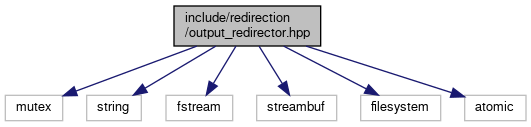
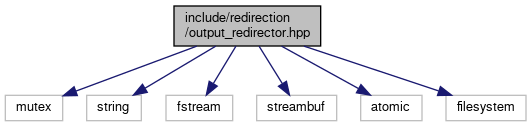
Update docs

Changed region(s): [[0.6026, 0.4016, 0.9944, 0.9685], [0.5122, 0.3543, 0.7232, 0.7559]]

diff --git a/docs/output__redirector_8hpp_source.html b/docs/output__redirector_8hpp_source.html
@@ -90,123 +90,125 @@ $(function() {
 <div class="line"><a name="l00023"></a><span class="lineno">   23</span>&#160;<span class="preprocessor"># include &lt;string&gt;</span></div>
 <div class="line"><a name="l00024"></a><span class="lineno">   24</span>&#160;<span class="preprocessor"># include &lt;fstream&gt;</span></div>
 <div class="line"><a name="l00025"></a><span class="lineno">   25</span>&#160;<span class="preprocessor"># include &lt;streambuf&gt;</span></div>
-<div class="line"><a name="l00026"></a><span class="lineno">   26</span>&#160;<span class="preprocessor">#ifndef __APPLE__</span></div>
-<div class="line"><a name="l00027"></a><span class="lineno">   27</span>&#160;<span class="preprocessor">  #if defined( __GNUC__ ) &amp;&amp; ( __GNUC___ &lt;= 8 )</span></div>
-<div class="line"><a name="l00028"></a><span class="lineno">   28</span>&#160;<span class="preprocessor">    #include &lt;experimental/filesystem&gt;</span></div>
-<div class="line"><a name="l00029"></a><span class="lineno">   29</span>&#160;<span class="preprocessor">  #else</span></div>
-<div class="line"><a name="l00030"></a><span class="lineno">   30</span>&#160;<span class="preprocessor">    #include &lt;filesystem&gt;</span></div>
-<div class="line"><a name="l00031"></a><span class="lineno">   31</span>&#160;<span class="preprocessor">  #endif</span></div>
-<div class="line"><a name="l00032"></a><span class="lineno">   32</span>&#160;<span class="preprocessor">#else</span></div>
-<div class="line"><a name="l00033"></a><span class="lineno">   33</span>&#160;<span class="preprocessor">  #include &lt;filesystem&gt;</span></div>
-<div class="line"><a name="l00034"></a><span class="lineno">   34</span>&#160;<span class="preprocessor">#endif</span></div>
-<div class="line"><a name="l00035"></a><span class="lineno">   35</span>&#160;<span class="preprocessor">#include &lt;atomic&gt;</span></div>
-<div class="line"><a name="l00036"></a><span class="lineno">   36</span>&#160; </div>
-<div class="line"><a name="l00037"></a><span class="lineno">   37</span>&#160;<span class="keyword">namespace </span><a class="code" href="namespaceosm.html">osm</a></div>
-<div class="line"><a name="l00038"></a><span class="lineno">   38</span>&#160;{</div>
-<div class="line"><a name="l00039"></a><span class="lineno">   39</span>&#160;  <span class="comment">//====================================================</span></div>
-<div class="line"><a name="l00040"></a><span class="lineno">   40</span>&#160;  <span class="comment">//     Aliases</span></div>
+<div class="line"><a name="l00026"></a><span class="lineno">   26</span>&#160;<span class="preprocessor">#include &lt;atomic&gt;</span></div>
+<div class="line"><a name="l00027"></a><span class="lineno">   27</span>&#160; </div>
+<div class="line"><a name="l00028"></a><span class="lineno">   28</span>&#160;<span class="comment">// Procedure for experimental header</span></div>
+<div class="line"><a name="l00029"></a><span class="lineno">   29</span>&#160;<span class="preprocessor">#ifndef __APPLE__</span></div>
+<div class="line"><a name="l00030"></a><span class="lineno">   30</span>&#160;<span class="preprocessor">  #if defined( __GNUC__ ) &amp;&amp; ( __GNUC___ &lt;= 8 )</span></div>
+<div class="line"><a name="l00031"></a><span class="lineno">   31</span>&#160;<span class="preprocessor">    #include &lt;experimental/filesystem&gt;</span></div>
+<div class="line"><a name="l00032"></a><span class="lineno">   32</span>&#160;<span class="preprocessor">  #else</span></div>
+<div class="line"><a name="l00033"></a><span class="lineno">   33</span>&#160;<span class="preprocessor">    #include &lt;filesystem&gt;</span></div>
+<div class="line"><a name="l00034"></a><span class="lineno">   34</span>&#160;<span class="preprocessor">  #endif</span></div>
+<div class="line"><a name="l00035"></a><span class="lineno">   35</span>&#160;<span class="preprocessor">#else</span></div>
+<div class="line"><a name="l00036"></a><span class="lineno">   36</span>&#160;<span class="preprocessor">  #include &lt;filesystem&gt;</span></div>
+<div class="line"><a name="l00037"></a><span class="lineno">   37</span>&#160;<span class="preprocessor">#endif</span></div>
+<div class="line"><a name="l00038"></a><span class="lineno">   38</span>&#160; </div>
+<div class="line"><a name="l00039"></a><span class="lineno">   39</span>&#160;<span class="keyword">namespace </span><a class="code" href="namespaceosm.html">osm</a></div>
+<div class="line"><a name="l00040"></a><span class="lineno">   40</span>&#160;{</div>
 <div class="line"><a name="l00041"></a><span class="lineno">   41</span>&#160;  <span class="comment">//====================================================</span></div>
-<div class="line"><a name="l00042"></a><span class="lineno">   42</span>&#160;<span class="preprocessor">  #ifndef __APPLE__</span></div>
-<div class="line"><a name="l00043"></a><span class="lineno">   43</span>&#160;<span class="preprocessor">    #if defined( __GNUC__ ) &amp;&amp; ( __GNUC___ &lt;= 8 )</span></div>
-<div class="line"><a name="l00044"></a><span class="lineno">   44</span>&#160;      <span class="keyword">namespace </span>fs = std::experimental::filesystem;</div>
-<div class="line"><a name="l00045"></a><span class="lineno">   45</span>&#160;<span class="preprocessor">    #else</span></div>
-<div class="line"><a name="l00046"></a><span class="lineno">   46</span>&#160;      <span class="keyword">namespace </span>fs = std::filesystem;</div>
-<div class="line"><a name="l00047"></a><span class="lineno">   47</span>&#160;<span class="preprocessor">    #endif</span></div>
-<div class="line"><a name="l00048"></a><span class="lineno">   48</span>&#160;<span class="preprocessor">  #else</span></div>
-<div class="line"><a name="l00049"></a><span class="lineno">   49</span>&#160;      <span class="keyword">namespace </span>fs = std::filesystem;</div>
-<div class="line"><a name="l00050"></a><span class="lineno">   50</span>&#160;<span class="preprocessor">  #endif</span></div>
-<div class="line"><a name="l00051"></a><span class="lineno">   51</span>&#160; </div>
-<div class="line"><a name="l00052"></a><span class="lineno">   52</span>&#160;  <span class="comment">//====================================================</span></div>
-<div class="line"><a name="l00053"></a><span class="lineno">   53</span>&#160;  <span class="comment">//     Classes</span></div>
+<div class="line"><a name="l00042"></a><span class="lineno">   42</span>&#160;  <span class="comment">//     Aliases</span></div>
+<div class="line"><a name="l00043"></a><span class="lineno">   43</span>&#160;  <span class="comment">//====================================================</span></div>
+<div class="line"><a name="l00044"></a><span class="lineno">   44</span>&#160;<span class="preprocessor">  #ifndef __APPLE__</span></div>
+<div class="line"><a name="l00045"></a><span class="lineno">   45</span>&#160;<span class="preprocessor">    #if defined( __GNUC__ ) &amp;&amp; ( __GNUC___ &lt;= 8 )</span></div>
+<div class="line"><a name="l00046"></a><span class="lineno">   46</span>&#160;      <span class="keyword">namespace </span>fs = std::experimental::filesystem;</div>
+<div class="line"><a name="l00047"></a><span class="lineno">   47</span>&#160;<span class="preprocessor">    #else</span></div>
+<div class="line"><a name="l00048"></a><span class="lineno">   48</span>&#160;      <span class="keyword">namespace </span>fs = std::filesystem;</div>
+<div class="line"><a name="l00049"></a><span class="lineno">   49</span>&#160;<span class="preprocessor">    #endif</span></div>
+<div class="line"><a name="l00050"></a><span class="lineno">   50</span>&#160;<span class="preprocessor">  #else</span></div>
+<div class="line"><a name="l00051"></a><span class="lineno">   51</span>&#160;      <span class="keyword">namespace </span>fs = std::filesystem;</div>
+<div class="line"><a name="l00052"></a><span class="lineno">   52</span>&#160;<span class="preprocessor">  #endif</span></div>
+<div class="line"><a name="l00053"></a><span class="lineno">   53</span>&#160; </div>
 <div class="line"><a name="l00054"></a><span class="lineno">   54</span>&#160;  <span class="comment">//====================================================</span></div>
-<div class="line"><a name="l00055"></a><span class="lineno">   55</span>&#160; </div>
-<div class="line"><a name="l00056"></a><span class="lineno">   56</span>&#160;  <span class="comment">// OutputRedirector</span></div>
-<div class="line"><a name="l00061"></a><span class="lineno"><a class="line" href="classosm_1_1OutputRedirector.html">   61</a></span>&#160;<span class="comment"></span>  <span class="keyword">class </span><a class="code" href="classosm_1_1OutputRedirector.html">OutputRedirector</a></div>
-<div class="line"><a name="l00062"></a><span class="lineno">   62</span>&#160;  {</div>
-<div class="line"><a name="l00063"></a><span class="lineno">   63</span>&#160;    <span class="keyword">typedef</span> std::scoped_lock&lt;std::mutex&gt; scoped_lock;</div>
-<div class="line"><a name="l00064"></a><span class="lineno">   64</span>&#160;    <span class="keyword">typedef</span> std::lock_guard&lt;std::mutex&gt; lock_guard;</div>
-<div class="line"><a name="l00065"></a><span class="lineno">   65</span>&#160; </div>
-<div class="line"><a name="l00066"></a><span class="lineno">   66</span>&#160;    <span class="keyword">public</span>:</div>
-<div class="line"><a name="l00067"></a><span class="lineno">   67</span>&#160;    <span class="comment">//====================================================</span></div>
-<div class="line"><a name="l00068"></a><span class="lineno">   68</span>&#160;    <span class="comment">//     Constructors</span></div>
+<div class="line"><a name="l00055"></a><span class="lineno">   55</span>&#160;  <span class="comment">//     Classes</span></div>
+<div class="line"><a name="l00056"></a><span class="lineno">   56</span>&#160;  <span class="comment">//====================================================</span></div>
+<div class="line"><a name="l00057"></a><span class="lineno">   57</span>&#160; </div>
+<div class="line"><a name="l00058"></a><span class="lineno">   58</span>&#160;  <span class="comment">// OutputRedirector</span></div>
+<div class="line"><a name="l00063"></a><span class="lineno"><a class="line" href="classosm_1_1OutputRedirector.html">   63</a></span>&#160;<span class="comment"></span>  <span class="keyword">class </span><a class="code" href="classosm_1_1OutputRedirector.html">OutputRedirector</a></div>
+<div class="line"><a name="l00064"></a><span class="lineno">   64</span>&#160;  {</div>
+<div class="line"><a name="l00065"></a><span class="lineno">   65</span>&#160;    <span class="keyword">typedef</span> std::scoped_lock&lt;std::mutex&gt; scoped_lock;</div>
+<div class="line"><a name="l00066"></a><span class="lineno">   66</span>&#160;    <span class="keyword">typedef</span> std::lock_guard&lt;std::mutex&gt; lock_guard;</div>
+<div class="line"><a name="l00067"></a><span class="lineno">   67</span>&#160; </div>
+<div class="line"><a name="l00068"></a><span class="lineno">   68</span>&#160;    <span class="keyword">public</span>:</div>
 <div class="line"><a name="l00069"></a><span class="lineno">   69</span>&#160;    <span class="comment">//====================================================</span></div>
-<div class="line"><a name="l00070"></a><span class="lineno">   70</span>&#160;    <a class="code" href="classosm_1_1OutputRedirector.html#a4cc61328e5652ad7bade97be6b75605e">OutputRedirector</a>();</div>
-<div class="line"><a name="l00071"></a><span class="lineno">   71</span>&#160;    <span class="keyword">explicit</span> <a class="code" href="classosm_1_1OutputRedirector.html#a4cc61328e5652ad7bade97be6b75605e">OutputRedirector</a>( std::string filename );</div>
-<div class="line"><a name="l00072"></a><span class="lineno">   72</span>&#160; </div>
-<div class="line"><a name="l00073"></a><span class="lineno">   73</span>&#160;    <span class="comment">//====================================================</span></div>
-<div class="line"><a name="l00074"></a><span class="lineno">   74</span>&#160;    <span class="comment">//     Destructor</span></div>
+<div class="line"><a name="l00070"></a><span class="lineno">   70</span>&#160;    <span class="comment">//     Constructors</span></div>
+<div class="line"><a name="l00071"></a><span class="lineno">   71</span>&#160;    <span class="comment">//====================================================</span></div>
+<div class="line"><a name="l00072"></a><span class="lineno">   72</span>&#160;    <a class="code" href="classosm_1_1OutputRedirector.html#a4cc61328e5652ad7bade97be6b75605e">OutputRedirector</a>();</div>
+<div class="line"><a name="l00073"></a><span class="lineno">   73</span>&#160;    <span class="keyword">explicit</span> <a class="code" href="classosm_1_1OutputRedirector.html#a4cc61328e5652ad7bade97be6b75605e">OutputRedirector</a>( std::string filename );</div>
+<div class="line"><a name="l00074"></a><span class="lineno">   74</span>&#160; </div>
 <div class="line"><a name="l00075"></a><span class="lineno">   75</span>&#160;    <span class="comment">//====================================================</span></div>
-<div class="line"><a name="l00076"></a><span class="lineno">   76</span>&#160;    <a class="code" href="classosm_1_1OutputRedirector.html#abe64b48e42cf7504cf7a2ea8917a21dc">~OutputRedirector</a>();</div>
-<div class="line"><a name="l00077"></a><span class="lineno">   77</span>&#160; </div>
-<div class="line"><a name="l00078"></a><span class="lineno">   78</span>&#160;    <span class="comment">//====================================================</span></div>
-<div class="line"><a name="l00079"></a><span class="lineno">   79</span>&#160;    <span class="comment">//     Setters</span></div>
+<div class="line"><a name="l00076"></a><span class="lineno">   76</span>&#160;    <span class="comment">//     Destructor</span></div>
+<div class="line"><a name="l00077"></a><span class="lineno">   77</span>&#160;    <span class="comment">//====================================================</span></div>
+<div class="line"><a name="l00078"></a><span class="lineno">   78</span>&#160;    <a class="code" href="classosm_1_1OutputRedirector.html#abe64b48e42cf7504cf7a2ea8917a21dc">~OutputRedirector</a>();</div>
+<div class="line"><a name="l00079"></a><span class="lineno">   79</span>&#160; </div>
 <div class="line"><a name="l00080"></a><span class="lineno">   80</span>&#160;    <span class="comment">//====================================================</span></div>
-<div class="line"><a name="l00081"></a><span class="lineno">   81</span>&#160;    <span class="keywordtype">void</span> <a class="code" href="classosm_1_1OutputRedirector.html#a6b92c69f3cecc6d384e3a238e22b61fa">setFilename</a>( <span class="keyword">const</span> std::string &amp; filename );</div>
-<div class="line"><a name="l00082"></a><span class="lineno">   82</span>&#160;    <span class="comment">//     void setFilepath( fs::path &amp; path );</span></div>
-<div class="line"><a name="l00083"></a><span class="lineno">   83</span>&#160; </div>
-<div class="line"><a name="l00084"></a><span class="lineno">   84</span>&#160;    <span class="comment">//====================================================</span></div>
-<div class="line"><a name="l00085"></a><span class="lineno">   85</span>&#160;    <span class="comment">//     Getters</span></div>
+<div class="line"><a name="l00081"></a><span class="lineno">   81</span>&#160;    <span class="comment">//     Setters</span></div>
+<div class="line"><a name="l00082"></a><span class="lineno">   82</span>&#160;    <span class="comment">//====================================================</span></div>
+<div class="line"><a name="l00083"></a><span class="lineno">   83</span>&#160;    <span class="keywordtype">void</span> <a class="code" href="classosm_1_1OutputRedirector.html#a6b92c69f3cecc6d384e3a238e22b61fa">setFilename</a>( <span class="keyword">const</span> std::string &amp; filename );</div>
+<div class="line"><a name="l00084"></a><span class="lineno">   84</span>&#160;    <span class="comment">//     void setFilepath( fs::path &amp; path );</span></div>
+<div class="line"><a name="l00085"></a><span class="lineno">   85</span>&#160; </div>
 <div class="line"><a name="l00086"></a><span class="lineno">   86</span>&#160;    <span class="comment">//====================================================</span></div>
-<div class="line"><a name="l00087"></a><span class="lineno">   87</span>&#160;    [[nodiscard]] std::string &amp; <a class="code" href="classosm_1_1OutputRedirector.html#aa7fe7a1142a8cc379fdb9f01fc94f354">getFilename</a>();</div>
-<div class="line"><a name="l00088"></a><span class="lineno">   88</span>&#160;    [[nodiscard]] std::string &amp; <a class="code" href="classosm_1_1OutputRedirector.html#a13c69adca11f67b4655528ebbe810779">getFilepath</a>();</div>
-<div class="line"><a name="l00089"></a><span class="lineno">   89</span>&#160; </div>
-<div class="line"><a name="l00090"></a><span class="lineno">   90</span>&#160;    <span class="comment">//====================================================</span></div>
-<div class="line"><a name="l00091"></a><span class="lineno">   91</span>&#160;    <span class="comment">//     Methods</span></div>
+<div class="line"><a name="l00087"></a><span class="lineno">   87</span>&#160;    <span class="comment">//     Getters</span></div>
+<div class="line"><a name="l00088"></a><span class="lineno">   88</span>&#160;    <span class="comment">//====================================================</span></div>
+<div class="line"><a name="l00089"></a><span class="lineno">   89</span>&#160;    [[nodiscard]] std::string &amp; <a class="code" href="classosm_1_1OutputRedirector.html#aa7fe7a1142a8cc379fdb9f01fc94f354">getFilename</a>();</div>
+<div class="line"><a name="l00090"></a><span class="lineno">   90</span>&#160;    [[nodiscard]] std::string &amp; <a class="code" href="classosm_1_1OutputRedirector.html#a13c69adca11f67b4655528ebbe810779">getFilepath</a>();</div>
+<div class="line"><a name="l00091"></a><span class="lineno">   91</span>&#160; </div>
 <div class="line"><a name="l00092"></a><span class="lineno">   92</span>&#160;    <span class="comment">//====================================================</span></div>
-<div class="line"><a name="l00093"></a><span class="lineno">   93</span>&#160;    <span class="keywordtype">void</span> <a class="code" href="classosm_1_1OutputRedirector.html#ae80cebe519c0f49412e6739ca04f20f6">end</a>();</div>
-<div class="line"><a name="l00094"></a><span class="lineno">   94</span>&#160;    <span class="keywordtype">void</span> <a class="code" href="classosm_1_1OutputRedirector.html#acc59eaf756a9b647bc6e863e1dbe70fa">begin</a>();</div>
-<div class="line"><a name="l00095"></a><span class="lineno">   95</span>&#160;    <span class="keywordtype">void</span> <a class="code" href="classosm_1_1OutputRedirector.html#a584bc4e50791182360aed5cc3de70fe8">flush</a>();</div>
-<div class="line"><a name="l00096"></a><span class="lineno">   96</span>&#160;    <span class="keywordtype">void</span> <a class="code" href="classosm_1_1OutputRedirector.html#accb08c8ad90c522c27c881fa76ba75c4">touch</a>();</div>
-<div class="line"><a name="l00097"></a><span class="lineno">   97</span>&#160; </div>
-<div class="line"><a name="l00098"></a><span class="lineno">   98</span>&#160;    <span class="comment">//====================================================</span></div>
-<div class="line"><a name="l00099"></a><span class="lineno">   99</span>&#160;    <span class="comment">//     Static public variable</span></div>
+<div class="line"><a name="l00093"></a><span class="lineno">   93</span>&#160;    <span class="comment">//     Methods</span></div>
+<div class="line"><a name="l00094"></a><span class="lineno">   94</span>&#160;    <span class="comment">//====================================================</span></div>
+<div class="line"><a name="l00095"></a><span class="lineno">   95</span>&#160;    <span class="keywordtype">void</span> <a class="code" href="classosm_1_1OutputRedirector.html#ae80cebe519c0f49412e6739ca04f20f6">end</a>();</div>
+<div class="line"><a name="l00096"></a><span class="lineno">   96</span>&#160;    <span class="keywordtype">void</span> <a class="code" href="classosm_1_1OutputRedirector.html#acc59eaf756a9b647bc6e863e1dbe70fa">begin</a>();</div>
+<div class="line"><a name="l00097"></a><span class="lineno">   97</span>&#160;    <span class="keywordtype">void</span> <a class="code" href="classosm_1_1OutputRedirector.html#a584bc4e50791182360aed5cc3de70fe8">flush</a>();</div>
+<div class="line"><a name="l00098"></a><span class="lineno">   98</span>&#160;    <span class="keywordtype">void</span> <a class="code" href="classosm_1_1OutputRedirector.html#accb08c8ad90c522c27c881fa76ba75c4">touch</a>();</div>
+<div class="line"><a name="l00099"></a><span class="lineno">   99</span>&#160; </div>
 <div class="line"><a name="l00100"></a><span class="lineno">  100</span>&#160;    <span class="comment">//====================================================</span></div>
-<div class="line"><a name="l00101"></a><span class="lineno"><a class="line" href="classosm_1_1OutputRedirector.html#a966cffd6734b5084659dc4dbe9c6418a">  101</a></span>&#160;    <span class="keyword">static</span> <span class="keyword">const</span> std::string <a class="code" href="classosm_1_1OutputRedirector.html#a966cffd6734b5084659dc4dbe9c6418a">DEFAULT_FILE_DIR</a>;</div>
-<div class="line"><a name="l00102"></a><span class="lineno"><a class="line" href="classosm_1_1OutputRedirector.html#a0ec4f99622d356de766c485a68a0c77c">  102</a></span>&#160;    <span class="keyword">static</span> <span class="keyword">const</span> std::string <a class="code" href="classosm_1_1OutputRedirector.html#a0ec4f99622d356de766c485a68a0c77c">DEFAULT_FILEPATH</a>;</div>
-<div class="line"><a name="l00103"></a><span class="lineno"><a class="line" href="classosm_1_1OutputRedirector.html#abca8ddb0cd026b771cc33a72bcd670b8">  103</a></span>&#160;    <span class="keyword">static</span> <span class="keyword">const</span> std::string <a class="code" href="classosm_1_1OutputRedirector.html#abca8ddb0cd026b771cc33a72bcd670b8">DEFAULT_FILENAME</a>;</div>
-<div class="line"><a name="l00104"></a><span class="lineno">  104</span>&#160; </div>
-<div class="line"><a name="l00105"></a><span class="lineno">  105</span>&#160;    <span class="keyword">private</span>:</div>
-<div class="line"><a name="l00106"></a><span class="lineno">  106</span>&#160;    <span class="comment">//====================================================</span></div>
-<div class="line"><a name="l00107"></a><span class="lineno">  107</span>&#160;    <span class="comment">//     Private attributes</span></div>
+<div class="line"><a name="l00101"></a><span class="lineno">  101</span>&#160;    <span class="comment">//     Static public variable</span></div>
+<div class="line"><a name="l00102"></a><span class="lineno">  102</span>&#160;    <span class="comment">//====================================================</span></div>
+<div class="line"><a name="l00103"></a><span class="lineno"><a class="line" href="classosm_1_1OutputRedirector.html#a966cffd6734b5084659dc4dbe9c6418a">  103</a></span>&#160;    <span class="keyword">static</span> <span class="keyword">const</span> std::string <a class="code" href="classosm_1_1OutputRedirector.html#a966cffd6734b5084659dc4dbe9c6418a">DEFAULT_FILE_DIR</a>;</div>
+<div class="line"><a name="l00104"></a><span class="lineno"><a class="line" href="classosm_1_1OutputRedirector.html#a0ec4f99622d356de766c485a68a0c77c">  104</a></span>&#160;    <span class="keyword">static</span> <span class="keyword">const</span> std::string <a class="code" href="classosm_1_1OutputRedirector.html#a0ec4f99622d356de766c485a68a0c77c">DEFAULT_FILEPATH</a>;</div>
+<div class="line"><a name="l00105"></a><span class="lineno"><a class="line" href="classosm_1_1OutputRedirector.html#abca8ddb0cd026b771cc33a72bcd670b8">  105</a></span>&#160;    <span class="keyword">static</span> <span class="keyword">const</span> std::string <a class="code" href="classosm_1_1OutputRedirector.html#abca8ddb0cd026b771cc33a72bcd670b8">DEFAULT_FILENAME</a>;</div>
+<div class="line"><a name="l00106"></a><span class="lineno">  106</span>&#160; </div>
+<div class="line"><a name="l00107"></a><span class="lineno">  107</span>&#160;    <span class="keyword">private</span>:</div>
 <div class="line"><a name="l00108"></a><span class="lineno">  108</span>&#160;    <span class="comment">//====================================================</span></div>
-<div class="line"><a name="l00109"></a><span class="lineno">  109</span>&#160;    std::mutex mutex_;</div>
-<div class="line"><a name="l00110"></a><span class="lineno">  110</span>&#160;    std::atomic&lt;int32_t&gt; ref_count;</div>
-<div class="line"><a name="l00111"></a><span class="lineno">  111</span>&#160; </div>
-<div class="line"><a name="l00112"></a><span class="lineno">  112</span>&#160;    std::string file_dir_;</div>
-<div class="line"><a name="l00113"></a><span class="lineno">  113</span>&#160;    std::string filename_;</div>
-<div class="line"><a name="l00114"></a><span class="lineno">  114</span>&#160;    std::string filepath_;</div>
-<div class="line"><a name="l00115"></a><span class="lineno">  115</span>&#160; </div>
-<div class="line"><a name="l00116"></a><span class="lineno">  116</span>&#160;    std::fstream fstream_;</div>
-<div class="line"><a name="l00117"></a><span class="lineno">  117</span>&#160;    std::stringbuf * output_stringbuf_;</div>
-<div class="line"><a name="l00118"></a><span class="lineno">  118</span>&#160;    std::streambuf * streambuf_backup_;</div>
-<div class="line"><a name="l00119"></a><span class="lineno">  119</span>&#160; </div>
-<div class="line"><a name="l00120"></a><span class="lineno">  120</span>&#160;    <span class="comment">//====================================================</span></div>
-<div class="line"><a name="l00121"></a><span class="lineno">  121</span>&#160;    <span class="comment">//     Private methods</span></div>
+<div class="line"><a name="l00109"></a><span class="lineno">  109</span>&#160;    <span class="comment">//     Private attributes</span></div>
+<div class="line"><a name="l00110"></a><span class="lineno">  110</span>&#160;    <span class="comment">//====================================================</span></div>
+<div class="line"><a name="l00111"></a><span class="lineno">  111</span>&#160;    std::mutex mutex_;</div>
+<div class="line"><a name="l00112"></a><span class="lineno">  112</span>&#160;    std::atomic&lt;int32_t&gt; ref_count;</div>
+<div class="line"><a name="l00113"></a><span class="lineno">  113</span>&#160; </div>
+<div class="line"><a name="l00114"></a><span class="lineno">  114</span>&#160;    std::string file_dir_;</div>
+<div class="line"><a name="l00115"></a><span class="lineno">  115</span>&#160;    std::string filename_;</div>
+<div class="line"><a name="l00116"></a><span class="lineno">  116</span>&#160;    std::string filepath_;</div>
+<div class="line"><a name="l00117"></a><span class="lineno">  117</span>&#160; </div>
+<div class="line"><a name="l00118"></a><span class="lineno">  118</span>&#160;    std::fstream fstream_;</div>
+<div class="line"><a name="l00119"></a><span class="lineno">  119</span>&#160;    std::stringbuf * output_stringbuf_;</div>
+<div class="line"><a name="l00120"></a><span class="lineno">  120</span>&#160;    std::streambuf * streambuf_backup_;</div>
+<div class="line"><a name="l00121"></a><span class="lineno">  121</span>&#160; </div>
 <div class="line"><a name="l00122"></a><span class="lineno">  122</span>&#160;    <span class="comment">//====================================================</span></div>
-<div class="line"><a name="l00123"></a><span class="lineno">  123</span>&#160;    <span class="keywordtype">void</span> clear_buffer();</div>
-<div class="line"><a name="l00124"></a><span class="lineno">  124</span>&#160;    <span class="keywordtype">void</span> redirect_output( std::string &amp; filename );</div>
-<div class="line"><a name="l00125"></a><span class="lineno">  125</span>&#160; </div>
-<div class="line"><a name="l00126"></a><span class="lineno">  126</span>&#160;    <span class="comment">// File</span></div>
-<div class="line"><a name="l00127"></a><span class="lineno">  127</span>&#160;    std::string read_file( <span class="keyword">const</span> std::string &amp; filename );</div>
-<div class="line"><a name="l00128"></a><span class="lineno">  128</span>&#160;    <span class="keywordtype">bool</span> write_to_file( <span class="keyword">const</span> std::string &amp; filename, <span class="keyword">const</span> std::string &amp; out_string );</div>
-<div class="line"><a name="l00129"></a><span class="lineno">  129</span>&#160; </div>
-<div class="line"><a name="l00130"></a><span class="lineno">  130</span>&#160;    <span class="comment">// Exceptions</span></div>
-<div class="line"><a name="l00131"></a><span class="lineno">  131</span>&#160;    <span class="keywordtype">void</span> sanity_check( <span class="keyword">const</span> std::string &amp; func_name );</div>
-<div class="line"><a name="l00132"></a><span class="lineno">  132</span>&#160;    <span class="keywordtype">void</span> exception_file_not_found();</div>
-<div class="line"><a name="l00133"></a><span class="lineno">  133</span>&#160;  };</div>
-<div class="line"><a name="l00134"></a><span class="lineno">  134</span>&#160; </div>
-<div class="line"><a name="l00135"></a><span class="lineno">  135</span>&#160;}      <span class="comment">// namespace osm</span></div>
+<div class="line"><a name="l00123"></a><span class="lineno">  123</span>&#160;    <span class="comment">//     Private methods</span></div>
+<div class="line"><a name="l00124"></a><span class="lineno">  124</span>&#160;    <span class="comment">//====================================================</span></div>
+<div class="line"><a name="l00125"></a><span class="lineno">  125</span>&#160;    <span class="keywordtype">void</span> clear_buffer();</div>
+<div class="line"><a name="l00126"></a><span class="lineno">  126</span>&#160;    <span class="keywordtype">void</span> redirect_output( std::string &amp; filename );</div>
+<div class="line"><a name="l00127"></a><span class="lineno">  127</span>&#160; </div>
+<div class="line"><a name="l00128"></a><span class="lineno">  128</span>&#160;    <span class="comment">// File</span></div>
+<div class="line"><a name="l00129"></a><span class="lineno">  129</span>&#160;    std::string read_file( <span class="keyword">const</span> std::string &amp; filename );</div>
+<div class="line"><a name="l00130"></a><span class="lineno">  130</span>&#160;    <span class="keywordtype">bool</span> write_to_file( <span class="keyword">const</span> std::string &amp; filename, <span class="keyword">const</span> std::string &amp; out_string );</div>
+<div class="line"><a name="l00131"></a><span class="lineno">  131</span>&#160; </div>
+<div class="line"><a name="l00132"></a><span class="lineno">  132</span>&#160;    <span class="comment">// Exceptions</span></div>
+<div class="line"><a name="l00133"></a><span class="lineno">  133</span>&#160;    <span class="keywordtype">void</span> sanity_check( <span class="keyword">const</span> std::string &amp; func_name );</div>
+<div class="line"><a name="l00134"></a><span class="lineno">  134</span>&#160;    <span class="keywordtype">void</span> exception_file_not_found();</div>
+<div class="line"><a name="l00135"></a><span class="lineno">  135</span>&#160;  };</div>
 <div class="line"><a name="l00136"></a><span class="lineno">  136</span>&#160; </div>
-<div class="line"><a name="l00137"></a><span class="lineno">  137</span>&#160;<span class="preprocessor">#endif</span></div>
-<div class="ttc" id="aclassosm_1_1OutputRedirector_html"><div class="ttname"><a href="classosm_1_1OutputRedirector.html">osm::OutputRedirector</a></div><div class="ttdoc">This class is used to redirected output to a file.</div><div class="ttdef"><b>Definition:</b> output_redirector.hpp:62</div></div>
-<div class="ttc" id="aclassosm_1_1OutputRedirector_html_a0ec4f99622d356de766c485a68a0c77c"><div class="ttname"><a href="classosm_1_1OutputRedirector.html#a0ec4f99622d356de766c485a68a0c77c">osm::OutputRedirector::DEFAULT_FILEPATH</a></div><div class="ttdeci">static const std::string DEFAULT_FILEPATH</div><div class="ttdef"><b>Definition:</b> output_redirector.hpp:102</div></div>
+<div class="line"><a name="l00137"></a><span class="lineno">  137</span>&#160;}      <span class="comment">// namespace osm</span></div>
+<div class="line"><a name="l00138"></a><span class="lineno">  138</span>&#160; </div>
+<div class="line"><a name="l00139"></a><span class="lineno">  139</span>&#160;<span class="preprocessor">#endif</span></div>
+<div class="ttc" id="aclassosm_1_1OutputRedirector_html"><div class="ttname"><a href="classosm_1_1OutputRedirector.html">osm::OutputRedirector</a></div><div class="ttdoc">This class is used to redirected output to a file.</div><div class="ttdef"><b>Definition:</b> output_redirector.hpp:64</div></div>
+<div class="ttc" id="aclassosm_1_1OutputRedirector_html_a0ec4f99622d356de766c485a68a0c77c"><div class="ttname"><a href="classosm_1_1OutputRedirector.html#a0ec4f99622d356de766c485a68a0c77c">osm::OutputRedirector::DEFAULT_FILEPATH</a></div><div class="ttdeci">static const std::string DEFAULT_FILEPATH</div><div class="ttdef"><b>Definition:</b> output_redirector.hpp:104</div></div>
 <div class="ttc" id="aclassosm_1_1OutputRedirector_html_a13c69adca11f67b4655528ebbe810779"><div class="ttname"><a href="classosm_1_1OutputRedirector.html#a13c69adca11f67b4655528ebbe810779">osm::OutputRedirector::getFilepath</a></div><div class="ttdeci">std::string &amp; getFilepath()</div><div class="ttdef"><b>Definition:</b> output_redirector.cpp:112</div></div>
 <div class="ttc" id="aclassosm_1_1OutputRedirector_html_a4cc61328e5652ad7bade97be6b75605e"><div class="ttname"><a href="classosm_1_1OutputRedirector.html#a4cc61328e5652ad7bade97be6b75605e">osm::OutputRedirector::OutputRedirector</a></div><div class="ttdeci">OutputRedirector()</div><div class="ttdoc">Construct a new OutputRedirector object. Default constructor will set the main attributes to default ...</div><div class="ttdef"><b>Definition:</b> output_redirector.cpp:42</div></div>
 <div class="ttc" id="aclassosm_1_1OutputRedirector_html_a584bc4e50791182360aed5cc3de70fe8"><div class="ttname"><a href="classosm_1_1OutputRedirector.html#a584bc4e50791182360aed5cc3de70fe8">osm::OutputRedirector::flush</a></div><div class="ttdeci">void flush()</div><div class="ttdoc">Attempts to write the new output buffer to the file, then clears the buffer.</div><div class="ttdef"><b>Definition:</b> output_redirector.cpp:167</div></div>
 <div class="ttc" id="aclassosm_1_1OutputRedirector_html_a6b92c69f3cecc6d384e3a238e22b61fa"><div class="ttname"><a href="classosm_1_1OutputRedirector.html#a6b92c69f3cecc6d384e3a238e22b61fa">osm::OutputRedirector::setFilename</a></div><div class="ttdeci">void setFilename(const std::string &amp;filename)</div><div class="ttdoc">Set the filename of the output file.</div><div class="ttdef"><b>Definition:</b> output_redirector.cpp:83</div></div>
-<div class="ttc" id="aclassosm_1_1OutputRedirector_html_a966cffd6734b5084659dc4dbe9c6418a"><div class="ttname"><a href="classosm_1_1OutputRedirector.html#a966cffd6734b5084659dc4dbe9c6418a">osm::OutputRedirector::DEFAULT_FILE_DIR</a></div><div class="ttdeci">static const std::string DEFAULT_FILE_DIR</div><div class="ttdef"><b>Definition:</b> output_redirector.hpp:101</div></div>
+<div class="ttc" id="aclassosm_1_1OutputRedirector_html_a966cffd6734b5084659dc4dbe9c6418a"><div class="ttname"><a href="classosm_1_1OutputRedirector.html#a966cffd6734b5084659dc4dbe9c6418a">osm::OutputRedirector::DEFAULT_FILE_DIR</a></div><div class="ttdeci">static const std::string DEFAULT_FILE_DIR</div><div class="ttdef"><b>Definition:</b> output_redirector.hpp:103</div></div>
 <div class="ttc" id="aclassosm_1_1OutputRedirector_html_aa7fe7a1142a8cc379fdb9f01fc94f354"><div class="ttname"><a href="classosm_1_1OutputRedirector.html#aa7fe7a1142a8cc379fdb9f01fc94f354">osm::OutputRedirector::getFilename</a></div><div class="ttdeci">std::string &amp; getFilename()</div><div class="ttdoc">Get the filename of the output file.</div><div class="ttdef"><b>Definition:</b> output_redirector.cpp:106</div></div>
-<div class="ttc" id="aclassosm_1_1OutputRedirector_html_abca8ddb0cd026b771cc33a72bcd670b8"><div class="ttname"><a href="classosm_1_1OutputRedirector.html#abca8ddb0cd026b771cc33a72bcd670b8">osm::OutputRedirector::DEFAULT_FILENAME</a></div><div class="ttdeci">static const std::string DEFAULT_FILENAME</div><div class="ttdef"><b>Definition:</b> output_redirector.hpp:103</div></div>
+<div class="ttc" id="aclassosm_1_1OutputRedirector_html_abca8ddb0cd026b771cc33a72bcd670b8"><div class="ttname"><a href="classosm_1_1OutputRedirector.html#abca8ddb0cd026b771cc33a72bcd670b8">osm::OutputRedirector::DEFAULT_FILENAME</a></div><div class="ttdeci">static const std::string DEFAULT_FILENAME</div><div class="ttdef"><b>Definition:</b> output_redirector.hpp:105</div></div>
 <div class="ttc" id="aclassosm_1_1OutputRedirector_html_abe64b48e42cf7504cf7a2ea8917a21dc"><div class="ttname"><a href="classosm_1_1OutputRedirector.html#abe64b48e42cf7504cf7a2ea8917a21dc">osm::OutputRedirector::~OutputRedirector</a></div><div class="ttdeci">~OutputRedirector()</div><div class="ttdoc">Destructs OutputRedirector object.</div><div class="ttdef"><b>Definition:</b> output_redirector.cpp:67</div></div>
 <div class="ttc" id="aclassosm_1_1OutputRedirector_html_acc59eaf756a9b647bc6e863e1dbe70fa"><div class="ttname"><a href="classosm_1_1OutputRedirector.html#acc59eaf756a9b647bc6e863e1dbe70fa">osm::OutputRedirector::begin</a></div><div class="ttdeci">void begin()</div><div class="ttdoc">Backs up the stdout buffer and begins redirecting output to a file.</div><div class="ttdef"><b>Definition:</b> output_redirector.cpp:127</div></div>
 <div class="ttc" id="aclassosm_1_1OutputRedirector_html_accb08c8ad90c522c27c881fa76ba75c4"><div class="ttname"><a href="classosm_1_1OutputRedirector.html#accb08c8ad90c522c27c881fa76ba75c4">osm::OutputRedirector::touch</a></div><div class="ttdeci">void touch()</div><div class="ttdoc">Opens the file, if present. Otherwise, creates the file.</div><div class="ttdef"><b>Definition:</b> output_redirector.cpp:189</div></div>

diff --git a/docs/output__redirector_8hpp.html b/docs/output__redirector_8hpp.html
@@ -79,8 +79,8 @@ $(function() {
 <code>#include &lt;string&gt;</code><br />
 <code>#include &lt;fstream&gt;</code><br />
 <code>#include &lt;streambuf&gt;</code><br />
-<code>#include &lt;filesystem&gt;</code><br />
 <code>#include &lt;atomic&gt;</code><br />
+<code>#include &lt;filesystem&gt;</code><br />
 </div><div class="textblock"><div class="dynheader">
 Include dependency graph for output_redirector.hpp:</div>
 <div class="dyncontent">
@@ -91,8 +91,8 @@ Include dependency graph for output_redirector.hpp:</div>
 <area shape="rect" title=" " alt="" coords="87,95,141,121"/>
 <area shape="rect" title=" " alt="" coords="166,95,233,121"/>
 <area shape="rect" title=" " alt="" coords="257,95,337,121"/>
-<area shape="rect" title=" " alt="" coords="361,95,441,121"/>
-<area shape="rect" title=" " alt="" coords="465,95,526,121"/>
+<area shape="rect" title=" " alt="" coords="361,95,422,121"/>
+<area shape="rect" title=" " alt="" coords="446,95,526,121"/>
 </map>
 </div>
 </div><div class="textblock"><div class="dynheader">

diff --git a/docs/output__redirector_8cpp.html b/docs/output__redirector_8cpp.html
@@ -93,8 +93,8 @@ Include dependency graph for output_redirector.cpp:</div>
 <area shape="rect" title=" " alt="" coords="23,184,78,211"/>
 <area shape="rect" title=" " alt="" coords="184,184,251,211"/>
 <area shape="rect" title=" " alt="" coords="275,184,355,211"/>
-<area shape="rect" title=" " alt="" coords="379,184,459,211"/>
-<area shape="rect" title=" " alt="" coords="483,184,544,211"/>
+<area shape="rect" title=" " alt="" coords="379,184,440,211"/>
+<area shape="rect" title=" " alt="" coords="464,184,544,211"/>
 </map>
 </div>
 </div><table class="memberdecls">
